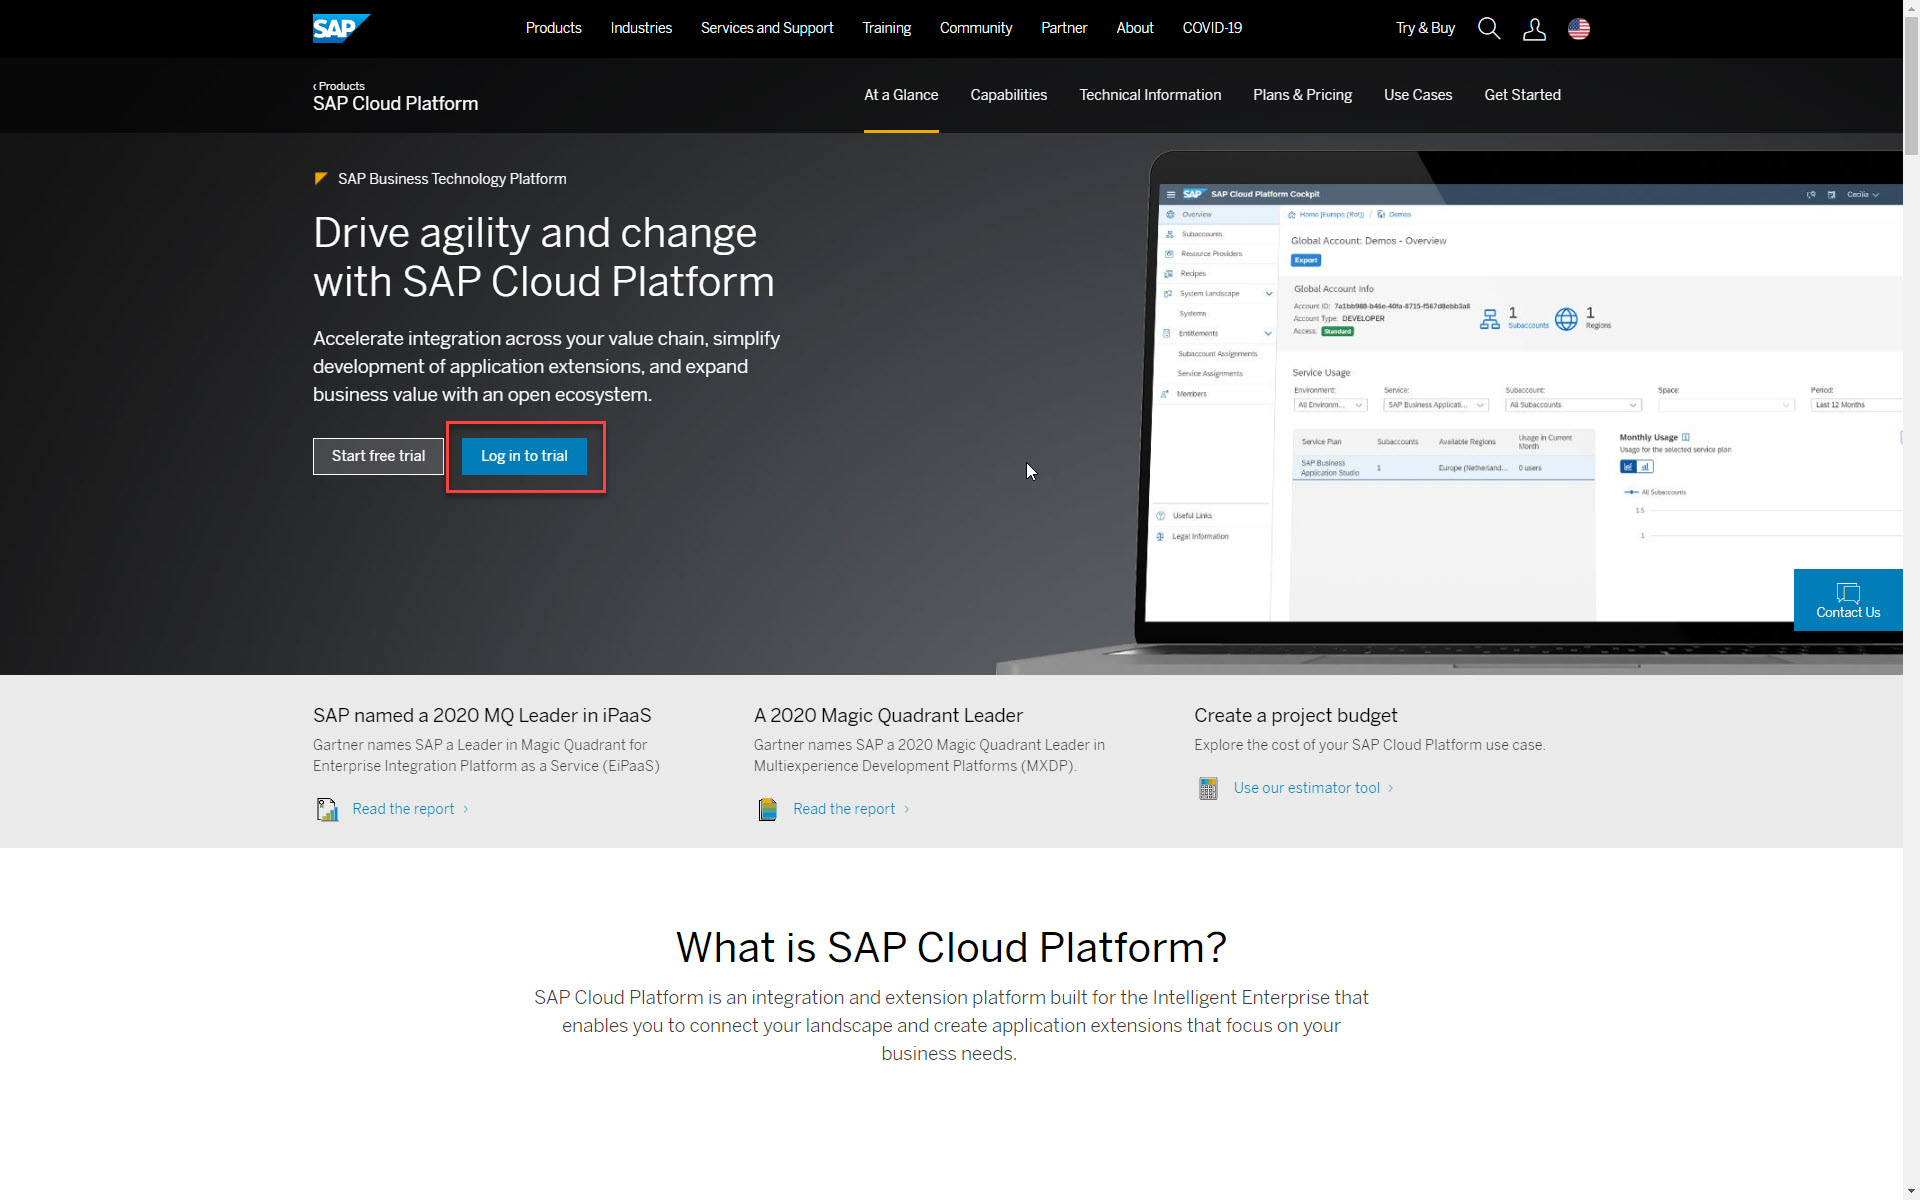
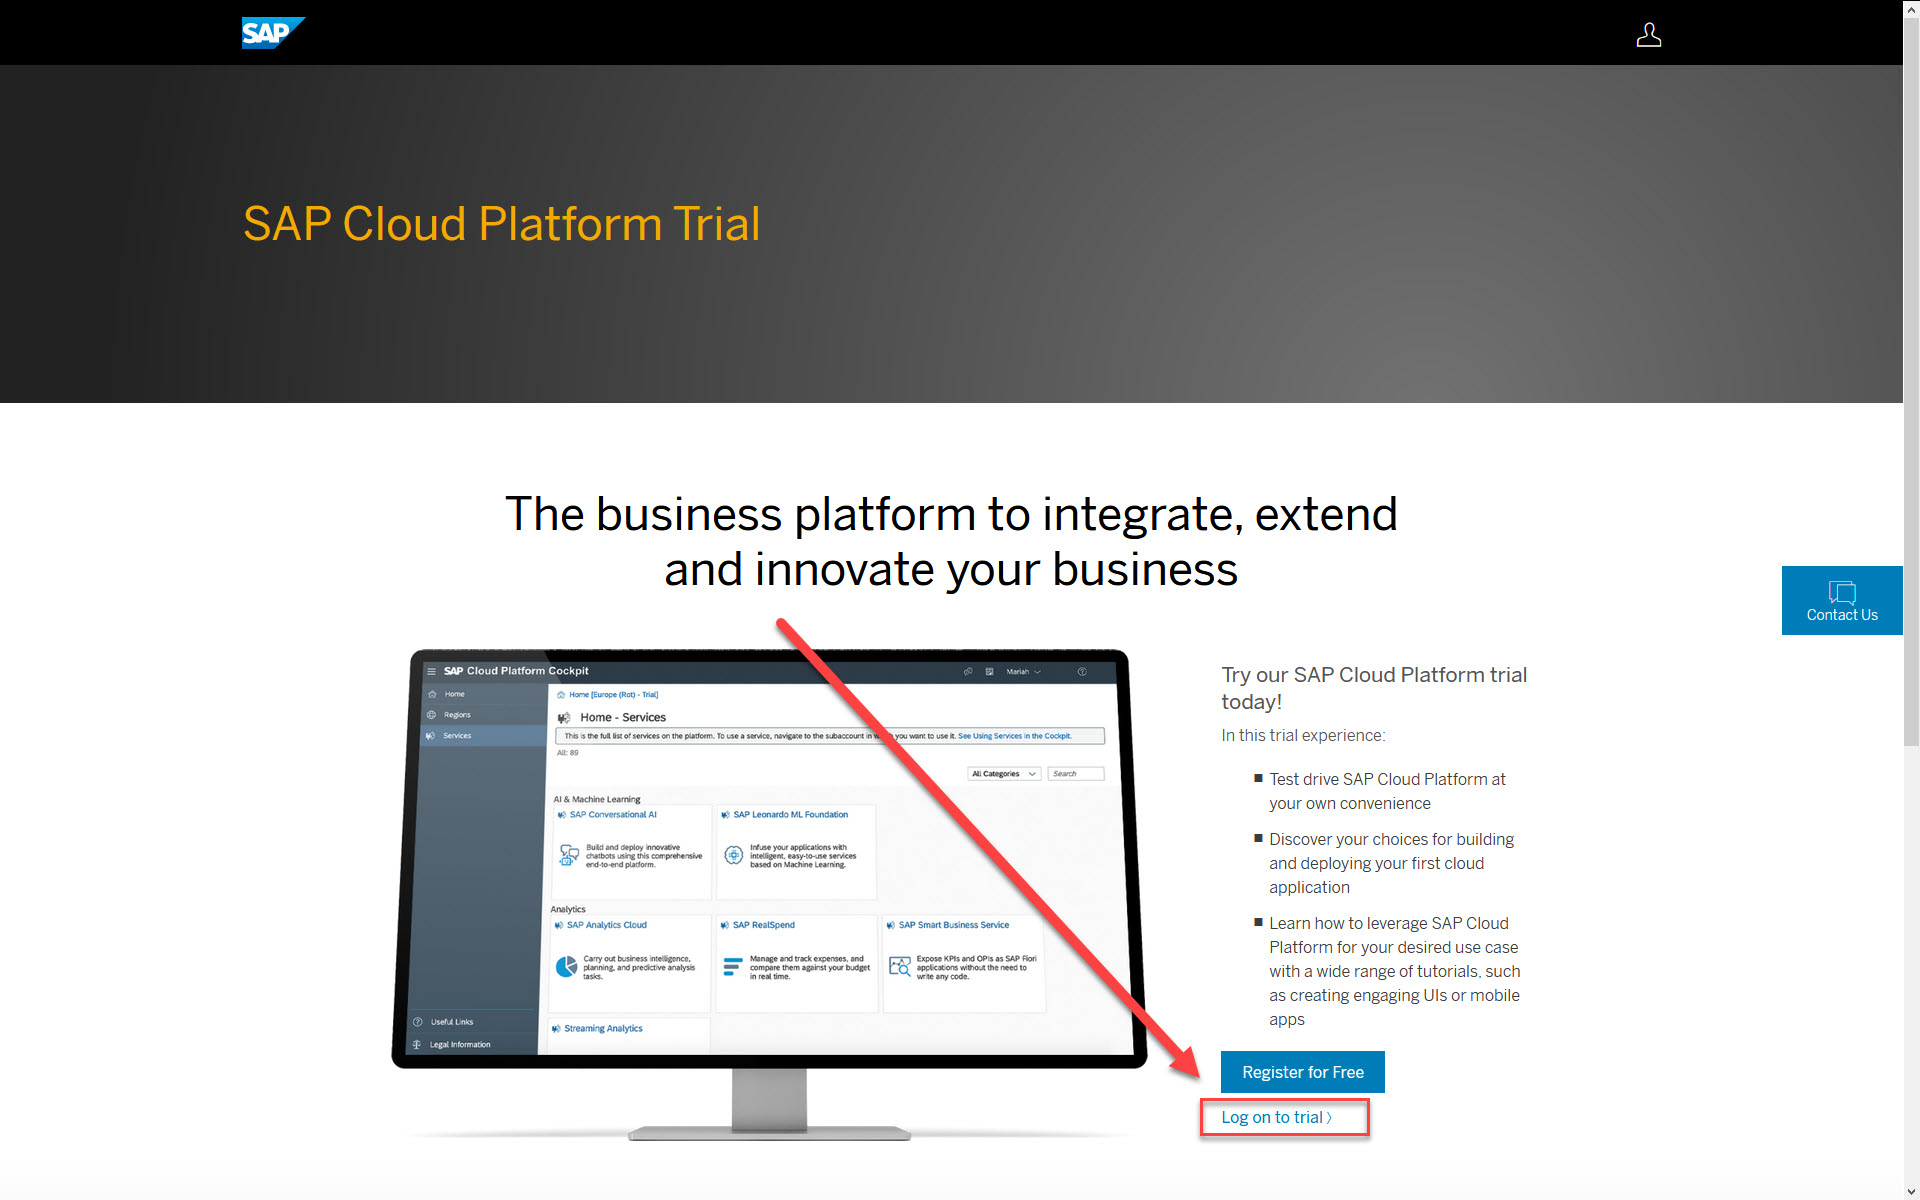
Updated lo on sequence and sub-exercise numbering

diff --git a/exercises/ex1/README.md b/exercises/ex1/README.md
@@ -10,14 +10,25 @@ This simplifies and saves time in setting up the development environment as ther
 
 After completing these steps, you will know how to access SAP Business Application Studio.
 
-1. Open a browser of your choice (Google Chrome, Microsoft Edge, Apple Safari, etc).
+1. Open a browser of your choice (Google Chrome, Mozilla Firefox).
+    >List of supported browsers is available [here](https://help.sap.com/viewer/9d1db9835307451daa8c930fbd9ab264/Cloud/en-US/8f46c6e6f86641cc900871c903761fd4.html).
 
-2. Go to [SAP Cloud Platform Landing Page](https://www.sap.com/products/cloud-platform.html?btp=10a432f3-a259-46c4-aebc-79c090a69b22), and click *Log in to trial* to log in to your SAP Cloud Platform cockpit. 
+2. Go to [SAP Business Technology Platform Landing Page](https://www.sap.com/products/business-technology-platform.html?btp=afb73d5c-d59d-4bc1-9a8f-4241eb17b7ab), and click *Free trials*.
+
     >If the log in doesn't work, make sure you fulfill the [requirements](../../README.md#requirements).
 
-    <br>![](images/2020-10_SCP_Trial_Landing_Page_.jpg)<br><br>
+    <br>![](images/2020-10_BTP_Landing_Page_.jpg)<br><br>
 
-3. Click **SAP Business Application Studio**, and log in with your credentials. 
+3.  Click *Try now* of the *SAP Cloud Platform Trial*.
+    <br><br>![](images/2020-10_BTP_Free_Trials_.jpg)<br><br>
+
+4. Click *Log on to trial>*.
+    <br><br>![](images/2020-10_SCP_Trial_Landing_Page_.jpg)<br><br>
+
+5. Provide your credentials, and press [ENTER] or click *Log On*.
+    <br><br>![](images/2020-10_SCP_Trial_Log_On_.jpg)<br><br>
+
+6. Click **SAP Business Application Studio** to open the *Dev Space Manager* page of SAP Business Application Studio. 
     >You may be prompted to accept the legal terms.
 
     >If the log in doesn't work, make sure you fulfill the [requirements](../../README.md#requirements).
@@ -26,31 +37,31 @@ After completing these steps, you will know how to access SAP Business Applicati
 
 ## Exercise 1.2 - Create Dev Space
 
-There are several dev space types that are available for you. Each dev space is tailored for a specific development scenario. In this session, you're developing an SAP Fiori app. Hence, you'll create a dev space of type SAP Fiori.
+There are several dev space types that are available for you. Each dev space type is tailored for a specific development scenario. In this session, you're developing an SAP Fiori app. Hence, you'll create a dev space of type SAP Fiori.
 
-4. Click *Create Dev Space*.
-<br><br>![](images/2020-10_BAS_Dev_Space_Manager_Empty_.jpg)<br><br>
+1. Click *Create Dev Space*.
+    <br><br>![](images/2020-10_BAS_Dev_Space_Manager_Empty_.jpg)<br><br>
 
-5. Enter the name of your dev space, e.g. *Procurement*, select *SAP Fiori* as the application type, and click *Create Dev Space*.
-<br><br>![](images/2020-10_BAS_Dev_Space_Create_.jpg)<br><br>
+2. Enter the name of your dev space, e.g. *Procurement*, select *SAP Fiori* as the application type, and click *Create Dev Space*.
+    <br><br>![](images/2020-10_BAS_Dev_Space_Create_.jpg)<br><br>
 
-6. Your dev space is being created. This might take a few minutes. Wait until the status shows *RUNNING*.
-<br><br>![](images/2020-10_BAS_Dev_Space_Starting_.jpg)<br><br>
-![](images/2020-10_BAS_Dev_Space_Running_.jpg)<br><br>
+3. Your dev space is being created. This might take a few minutes. Wait until the status shows *RUNNING*.
+    <br><br>![](images/2020-10_BAS_Dev_Space_Starting_.jpg)<br><br>
+    ![](images/2020-10_BAS_Dev_Space_Running_.jpg)<br><br>
 
    >If you reached the maximum number of allowed dev spaces (2 for trial accounts), you should either use an exisiting dev space of type *SAP Fiori* or delete one of your exisiting dev spaces. Do not forget to back up your information/code.
 
    >If the dev space state stays *STOPPED* after creation, you may have reached the maximum number of allowed running dev spaces (1 for trial accounts). Click the *Stop* button, and then the *Start* button. Both operations can take place simultaneously, just make sure that the stop operation is started before the start operation.
 
-7. Bookmark this URL, so it'll be easier for you to access your dev space manager. 
+4. Bookmark this URL, so it'll be easier for you to access your dev space manager. 
     >It's better to mark the dev space manager rather than the specific dev space, as dev spaces are automatically stopped after a period of time, making them inaccessible. The dev space manager link will remain active.
 
 ## Exercise 1.3 - Launch the Development Environment
 
-8. Click on your dev space name, e.g. *Procurement*. You'll be redirected to your newly created SAP Business Application Studio dev space.
+1. Click on your dev space name, e.g. *Procurement*. You'll be redirected to your newly created SAP Business Application Studio dev space.
     >You may be prompted to accept the legal terms.
 
-    <br><br>![](images/2020-10_BAS_Launched_.jpg)<br><br>
+    <br>![](images/2020-10_BAS_Launched_.jpg)<br><br>
 
     >Tip: If you want to go back to the dev space manager page, use the bookmark you saved before or remove the text after its `index.html` in the URL, and press [ENTER].
 
@@ -62,32 +73,32 @@ After completing these steps, you will upload several files to SAP Business Appl
     + Demonstrate the file comparison functionality.
     + Connect the app to a backend system.
 
-9. Click *Open Workspace*.
+1. Click *Open Workspace*.
     <br><br>![](images/2020-10_BAS_Open_Workspace_.jpg)<br><br>
 
-10. Select *projects*, and click *Open*.
+2. Select *projects*, and click *Open*.
     <br><br>![](images/2020-10_BAS_Open_Workspace-2_.jpg)<br><br>
     >Wait for SAP Business Application Studio to re-load.
     ><br>![](images/2020-10_BAS_Open_Workspace-3_.jpg)<br><br>
 
-11. From the main menu, select *File | New Folder*.
+3. From the main menu, select *File | New Folder*.
     >Using information in the popup message, verify that the new folder will be created in */home/user/projects*. If a different path is presented, it's most probably due to a flie or folder being selected. Close the *New Folder* dialog, press [CTRL] and click the selected file or folder, and repeat this step.
     <br><br>![](images/2020-10_BAS_New_Folder_Path_.jpg)<br><br>
 
-12. Name the folder *data*, and click *OK*.
+4. Name the folder *data*, and click *OK*.
     <br><br>![](images/2020-10_BAS_New_Folder_.jpg)<br><br>
 
-13. Click the following [link](data/metadata.xml?raw=true) to access the `metadata.xml` file.
+5. Click the following [link](data/metadata.xml?raw=true) to access the `metadata.xml` file.
     >When working with GitHub, if you want to open a link in a new tab, press [CTRL] and click the link.
 
-14. Right-click the data area, and select *Save as...*.
+6. Right-click the data area, and select *Save as...*.
     >You'll save the file to your local machine.
 
-15. Choose the folder to where the file will be saved (`Downloads` is the default folder). Use `metadata.xml` as the *File name*, and click *Save*.
+7. Choose the folder to where the file will be saved (`Downloads` is the default folder). Use `metadata.xml` as the *File name*, and click *Save*.
     >The default file extension using this method is *txt*. Change *Save as type* to *All Files (*.*)*, and for the metadata file make sure you modify its extension to *xml*.
     ><br><br>![](images/2020-10_Save_File_.jpg)<br><br>
 
-16. Open the folder to where you saved the file, and drag and drop it to the *data* folder you created in SAP Business Application Studio.
+8. Open the folder to where you saved the file, and drag and drop it to the *data* folder you created in SAP Business Application Studio.
     <br><br>![](images/2020-10_BAS_Metadata_Uploaded_.jpg)<br><br>
 
     >Follow the same steps for [ui5.yaml](data/ui5.yaml?raw=true), [package.json](data/package.json?raw=true), [manifest.json](data/manifest.json?raw=true), which will be used at a later stage of the workshop.
